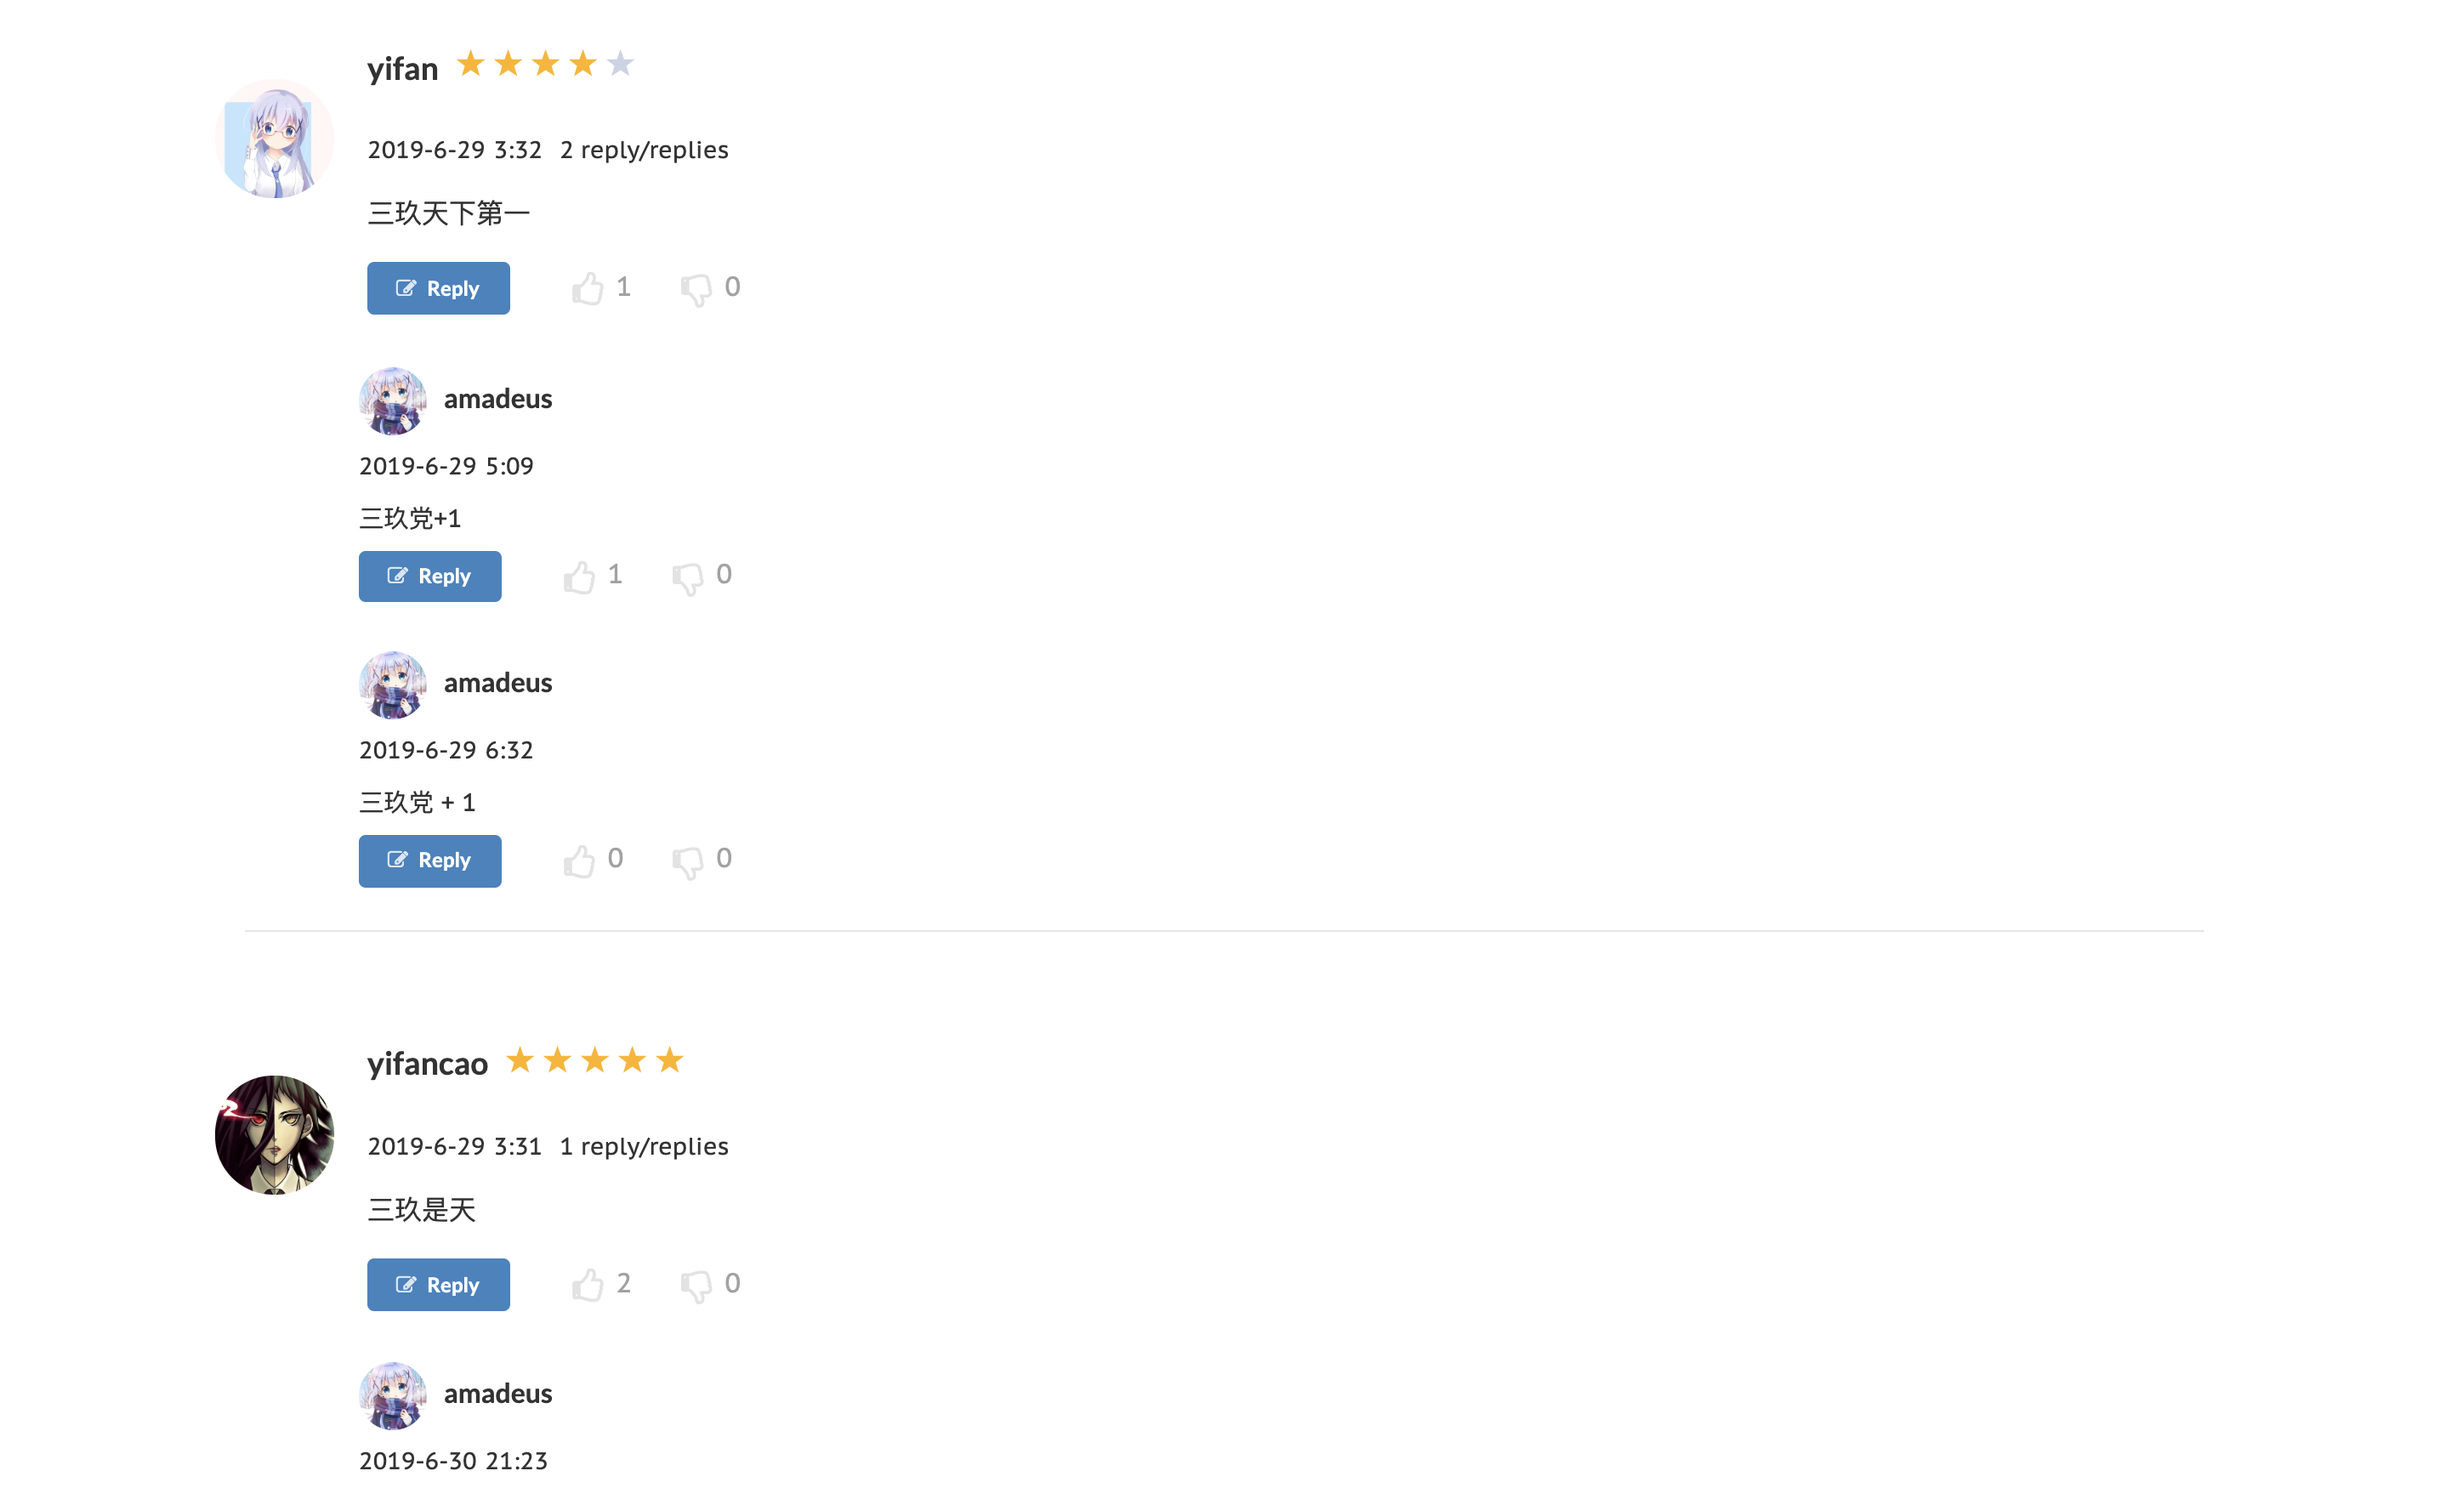
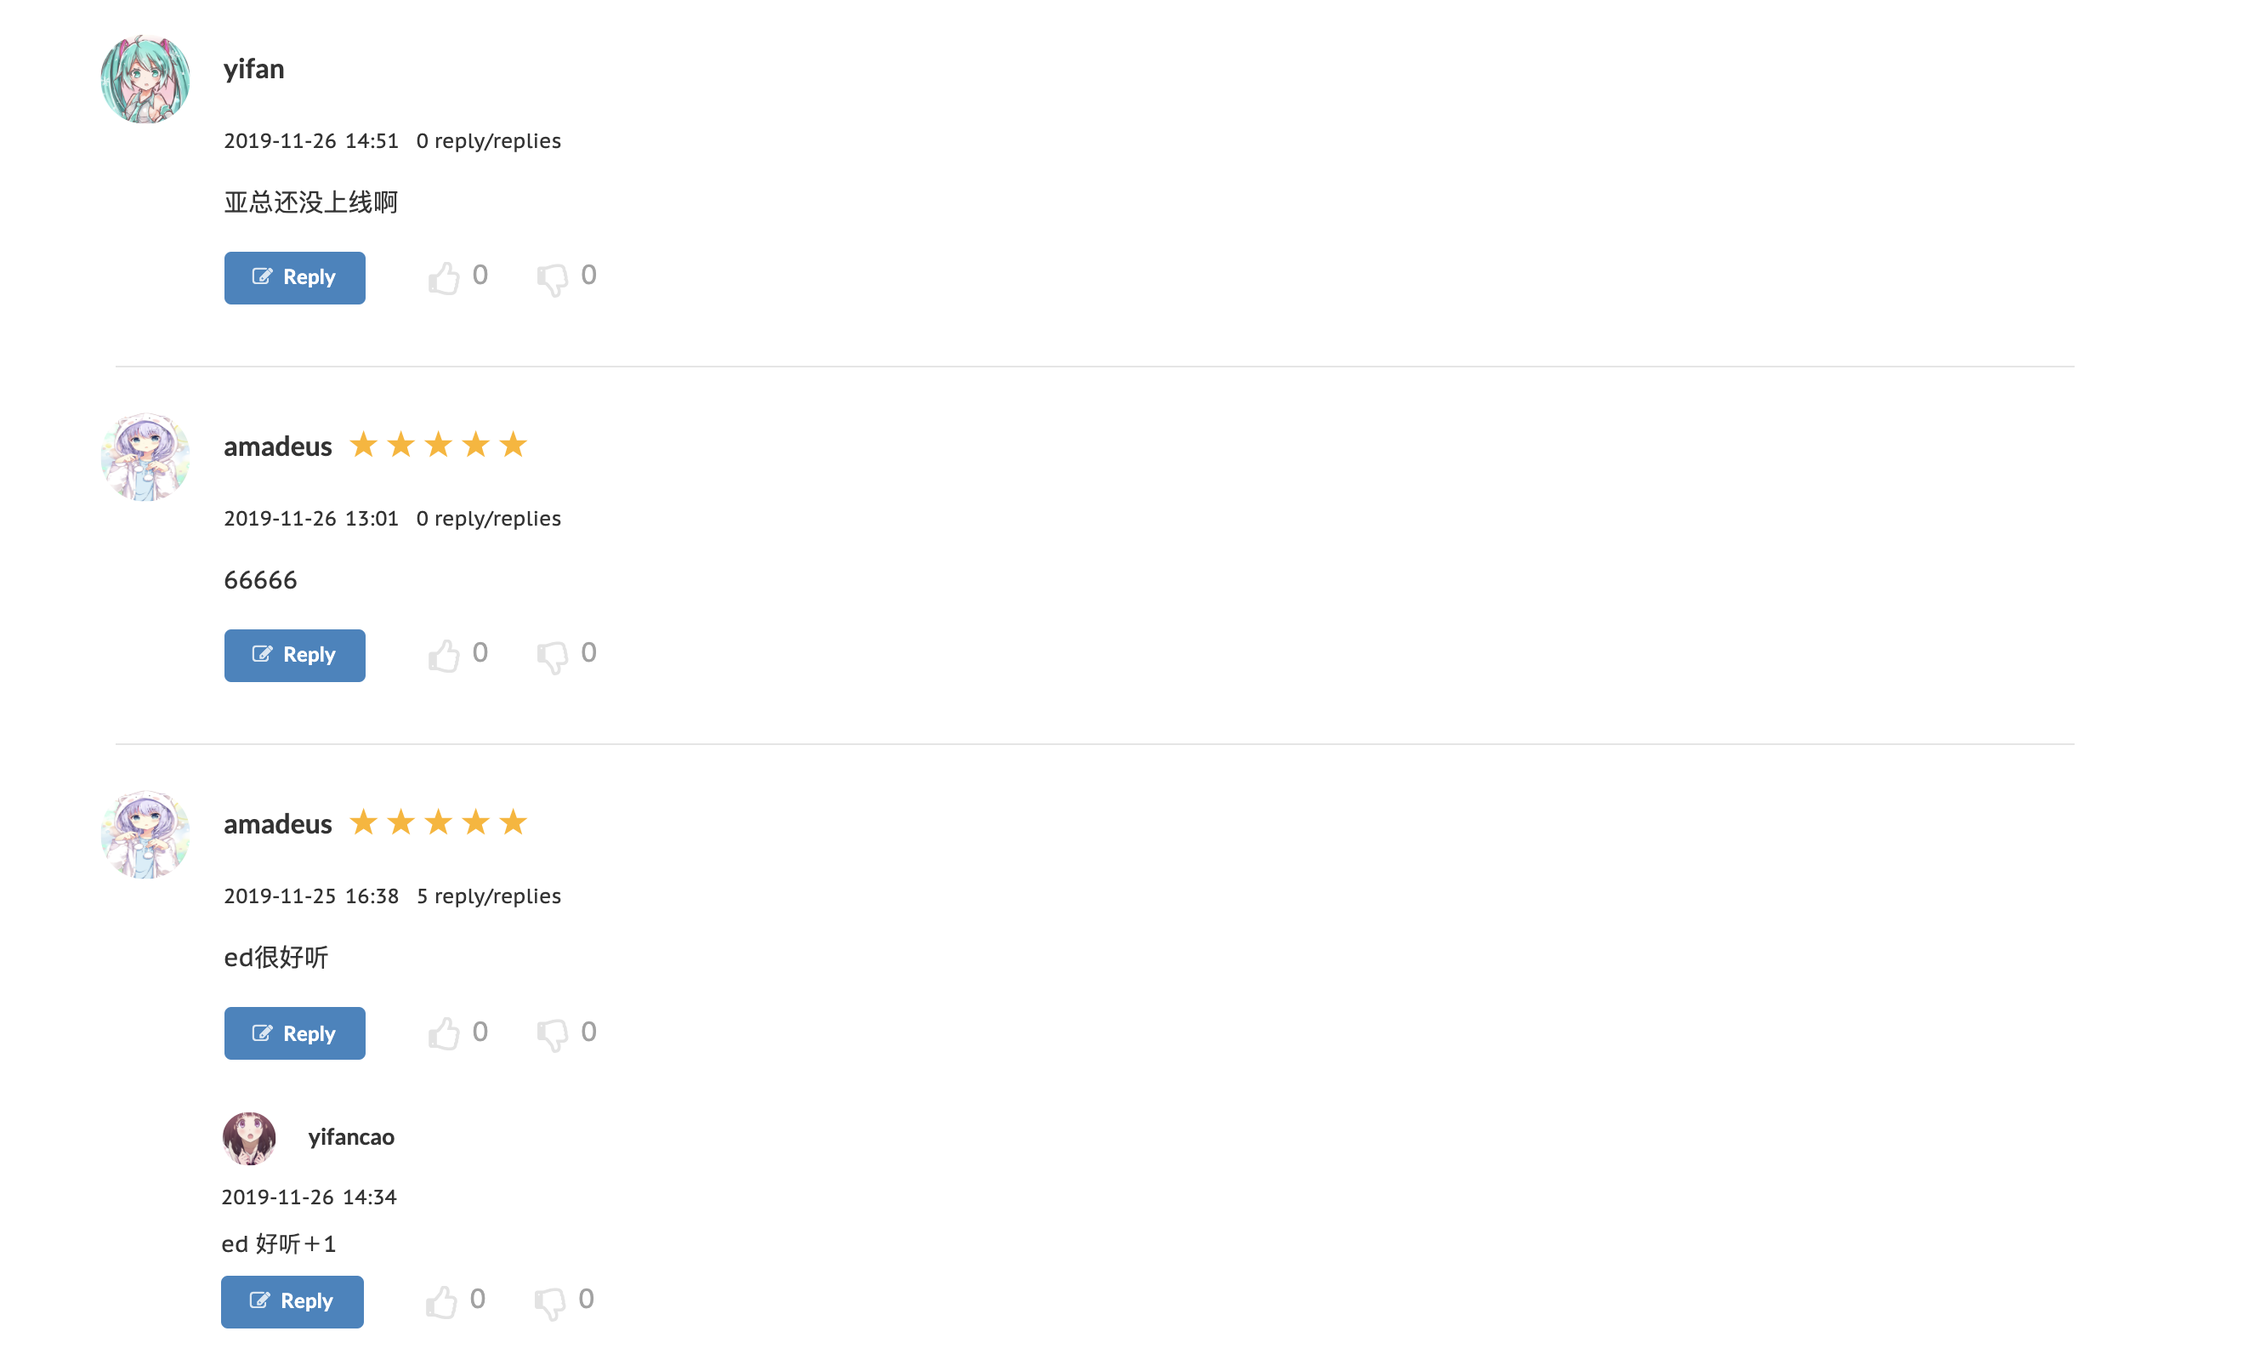
improve comment view and fix display error for upcoming bangumi

diff --git a/client/src/Components/DetailPage/Comments/Comment/comment.jsx b/client/src/Components/DetailPage/Comments/Comment/comment.jsx
@@ -128,18 +128,18 @@ class Comment extends Component {
                 }
                 return (
                     <List.Item style = {{'font-family': "'PT Sans Caption', sans-serif", 'margin-top': '20px'}}>
-                        <List.Content style = {{'margin-left': '60px'}}>
-                            <List.Header style = {{'font-size': '12pt'}}>
+                        <List.Content style = {{'margin-left': '55px'}}>
+                            <List.Header style = {{'font-size': '10pt'}}>
                                 <Image onClick = {this.toProfile.bind(this, reply.user_id)}
-                                className = {replyAvatarStyle} style = {{'margin-right': '10px'}} avatar src = {avatar}/>
+                                className = {replyAvatarStyle} style = {{'margin-right': '18px'}} avatar src = {avatar}/>
                                 {reply.username} 
                                 <span style = {atstyle}>@ {reply.repliedUsername}</span>
                             </List.Header>
-                            <p style = {{'margin-top': '10px'}}>
+                            <p style = {{'marginTop': '10px', 'fontSize': '9pt'}}>
                                 {date.getFullYear()}-{date.getMonth()+1}-{date.getDate()}
                                 <span style = {{'padding-left': '5px'}}>{date.getHours()}:{minute}</span>
                             </p>
-                            <List.Description style = {{'font-size': '11pt', 'margin-top': '10px'}}>
+                            <List.Description style = {{'font-size': '10pt'}}>
                                 {reply.commentContent}
                             </List.Description>
                             <Button icon='edit' content = 'Reply' 
@@ -166,32 +166,33 @@ class Comment extends Component {
         return(
             <List.Item style = {{'font-family': "'PT Sans Caption', sans-serif"}}>
                 <Divider/>
-                <Image onClick = {this.toProfile.bind(this, this.props.comment.user_id)} 
-                className = {avatarStyle} avatar src = {avatar}/>
-                <List.Content style = {{'margin-left': '30px', 'margin-top': '50px'}}>
-                    <List.Header style = {{'font-size': '14pt'}}>
-                        <div className = {usernameStyle}>
-                            <p style = {{'padding-right': '10px'}}>{this.props.comment.username}</p>
-                            <span style = {this.props.starDisplay}>
-                                <NoneditStarRating average = {this.props.score}/>
-                            </span>
-                        </div>
-                    </List.Header>
-                    <p style = {{'margin-top': '10px'}}>
-                        {date.getFullYear()}-{date.getMonth()+1}-{date.getDate()}
-                        <span style = {{'padding-left': '5px'}}>{date.getHours()}:{minute}</span>
-                        <span style = {{'margin-left': '10px'}}>{replyList.length} reply/replies</span>
-                    </p>
-                    <List.Description style = {{'font-size': '12pt', 'margin-top': '20px'}}>
-                        {this.props.comment.commentContent}
-                    </List.Description>
-                    <Button icon = 'edit' content = 'Reply' 
-                    onClick = {this.replyComment.bind(this, this.props.comment)} 
-                    style = {{'margin-top': '20px'}} size = 'tiny' color = 'blue' 
-                    disabled = {this.props.currentUser && 
-                    this.props.comment.username === this.props.currentUser.username}/>
-                    <Likebar currentUser = {this.props.currentUser} comment = {this.props.comment}/>
-                </List.Content>
+                <div style = {{display: 'flex', alignItems:'flex-start'}}>
+                    <Image onClick = {this.toProfile.bind(this, this.props.comment.user_id)} className = {avatarStyle} avatar src = {avatar}/>
+                    <List.Content style = {{'margin-left': '25px', 'margin-top': '20px'}}>
+                        <List.Header style = {{'font-size': '12pt'}}>
+                            <div className = {usernameStyle}>
+                                <p style = {{'padding-right': '10px'}}>{this.props.comment.username}</p>
+                                <span style = {this.props.starDisplay}>
+                                    <NoneditStarRating average = {this.props.score}/>
+                                </span>
+                            </div>
+                        </List.Header>
+                        <p style = {{'fontSize': '9pt'}}>
+                            {date.getFullYear()}-{date.getMonth()+1}-{date.getDate()}
+                            <span style = {{'padding-left': '5px'}}>{date.getHours()}:{minute}</span>
+                            <span style = {{'margin-left': '10px'}}>{replyList.length} reply/replies</span>
+                        </p>
+                        <List.Description style = {{'font-size': '11pt', 'margin-top': '20px'}}>
+                            {this.props.comment.commentContent}
+                        </List.Description>
+                        <Button icon = 'edit' content = 'Reply' 
+                        onClick = {this.replyComment.bind(this, this.props.comment)} 
+                        style = {{'margin-top': '20px'}} size = 'tiny' color = 'blue' 
+                        disabled = {this.props.currentUser && 
+                        this.props.comment.username === this.props.currentUser.username}/>
+                        <Likebar currentUser = {this.props.currentUser} comment = {this.props.comment}/>
+                    </List.Content>
+                </div>
                 <List>
                     {replyList}
                 </List>

diff --git a/client/src/Components/Home/HomePage/UpcomingBangumi/upcomingBangumi.jsx b/client/src/Components/Home/HomePage/UpcomingBangumi/upcomingBangumi.jsx
@@ -90,13 +90,13 @@ class UpcomingBangumi extends Component {
         let bangumi = this.state.upcomingBangumi;
         let upcomingList = bangumi.map(bangumi => {
             let labelStyle = {
-                width: '180px',
+                width: '160px',
                 height: 'auto',
                 background: 'white',
             }
             let imgStyle = {
                 width: '160px',
-                height: '210px',
+                height: '190px',
             }
             return(
                 <Label onClick ={this.toDetailPage.bind(this, bangumi)} style = {labelStyle}>

diff --git a/client/src/Components/DetailPage/Comments/Comment/comment.module.scss b/client/src/Components/DetailPage/Comments/Comment/comment.module.scss
@@ -1,9 +1,14 @@
 .avatarStyle {
-    transform: scale(2);
+    transform: scale(1.5);
+    margin-top: 20px;
 }
 
 .avatarStyle:hover {
     cursor: pointer;
+}
+
+.replyAvatarStyle {
+    transform: scale(0.95);
 }
 
 .replyAvatarStyle:hover {
